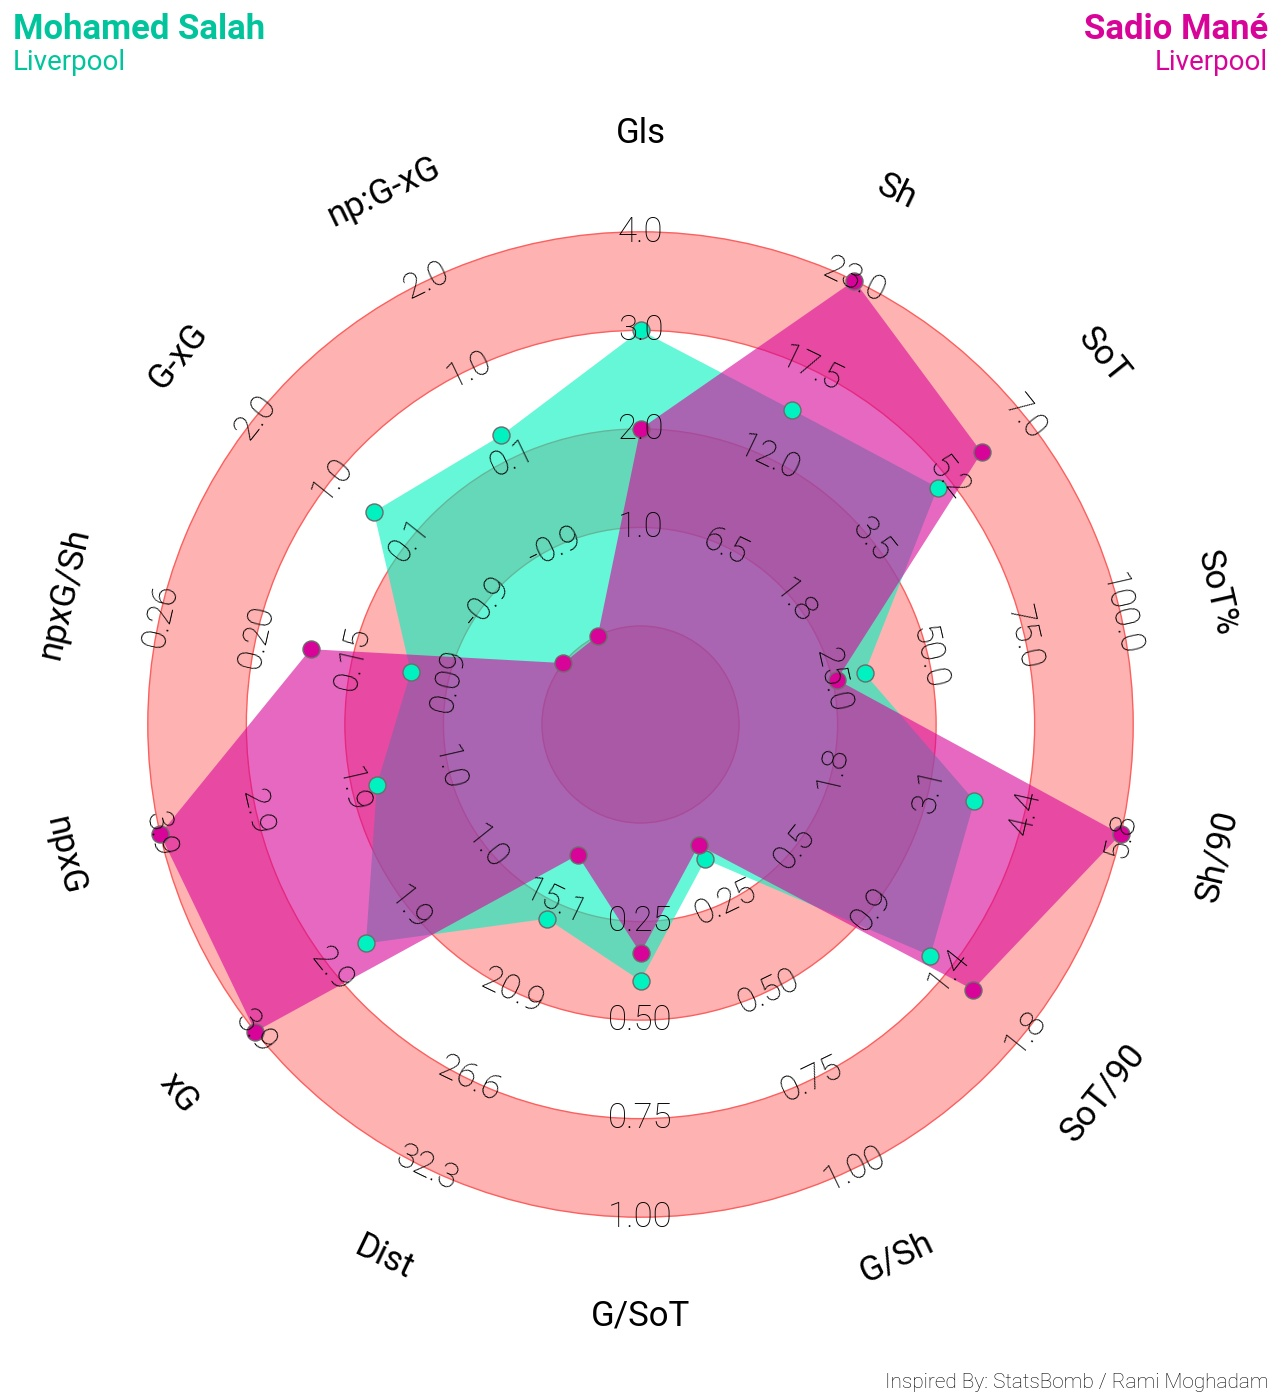
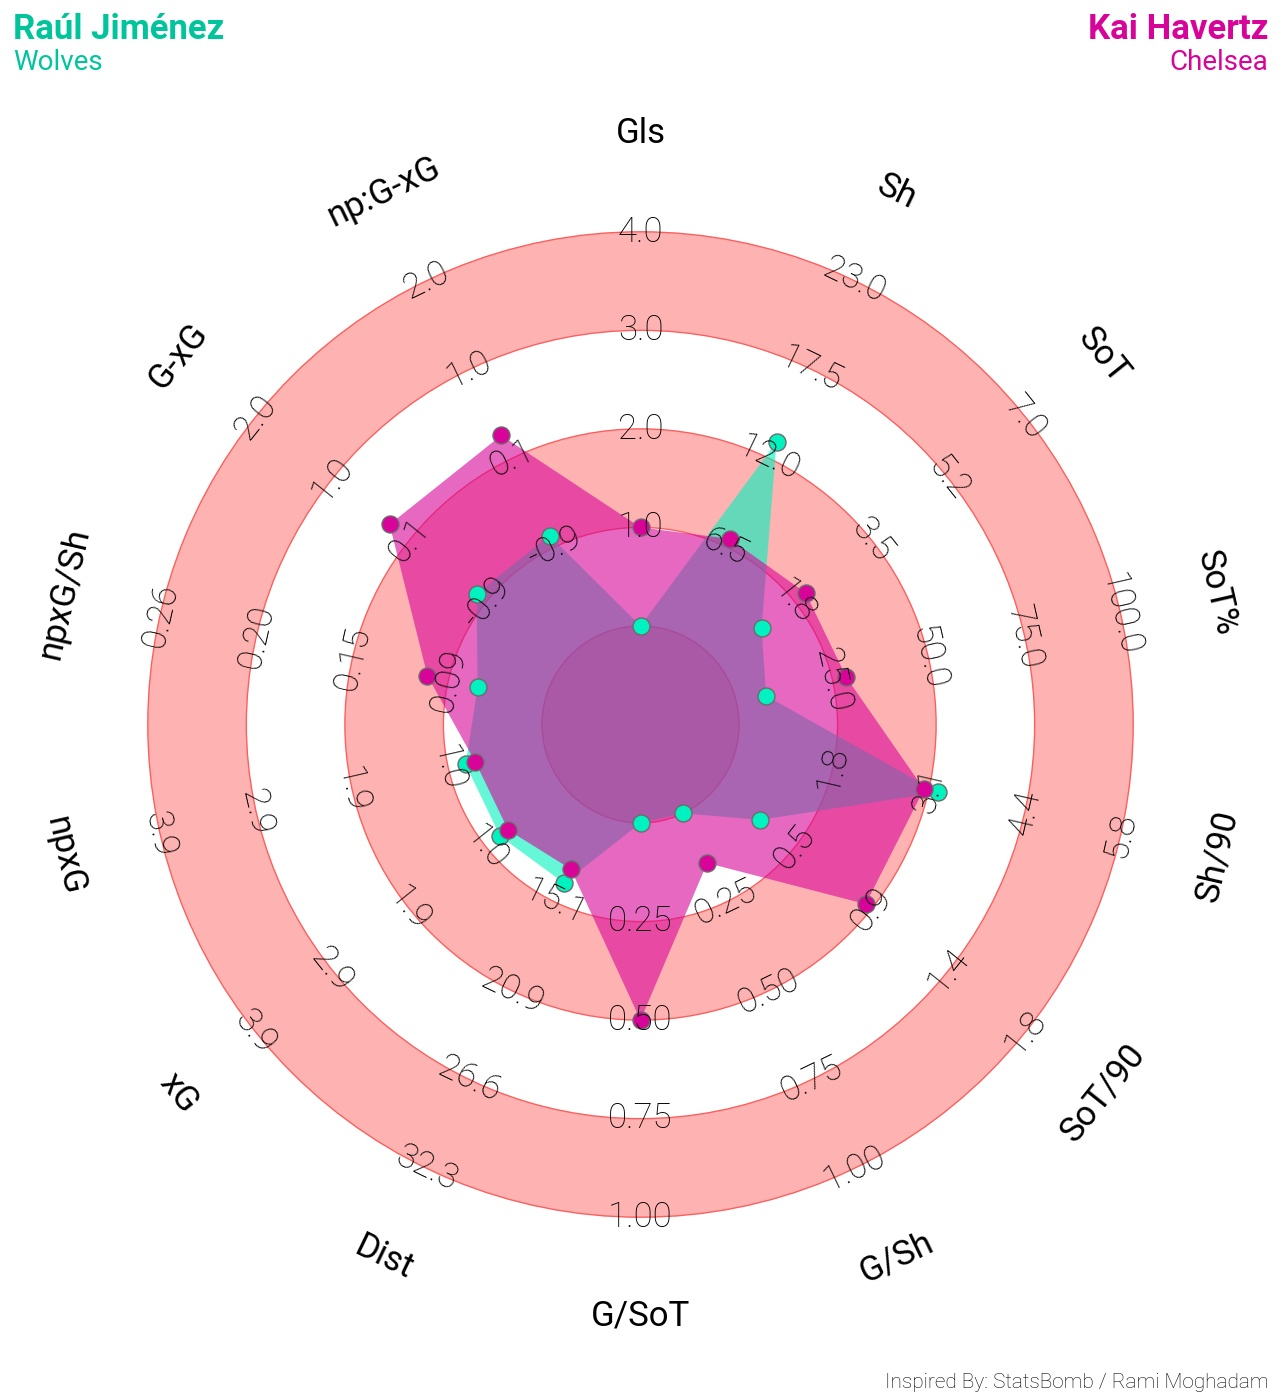
give random players as placeholders and error message

Changed region(s): [[0.1249, 0.1843, 0.8743, 0.7371], [0.0, 0.0, 0.2186, 0.0614], [0.8431, 0.0, 0.9992, 0.0614]]

diff --git a/templates/index.html b/templates/index.html
@@ -13,10 +13,23 @@
 <body>
 
 <section id="form">
+    <div class="container">
+    {% with messages = get_flashed_messages(with_categories=true) %}
+    <!-- Categories: success (green), info (blue), warning (yellow), danger (red) -->
+      {% if messages %}
+        {% for category, message in messages %}
+          <div class="alert alert-{{ category }} alert-dismissible" role="alert">
+          <!-- <strong>Title</strong> --> {{ message }}
+          </div>
+        {% endfor %}
+    {% endif %}
+    {% endwith %}
+    </div>
     <div class="container-sm">
         <h1>Give two players to compare</h1>
         <p>Choose from:</p>
         <p>{{ players }}</p>
+        <p><em>This list is all players who have played more than 2 full games and are classified as a forward on FBref.</em></p>
         {{ wtf.quick_form(form, novalidate=True, button_map={"submit": "primary"}) }}
     </div>
 </section>

diff --git a/main.py b/main.py
@@ -4,6 +4,7 @@ from forms import SubmitPlayers
 from mplsoccer import FontManager
 from chart import chart_maker
 import pandas as pd
+import random
 
 URL4 = 'https://github.com/googlefonts/roboto/blob/main/src/hinted/Roboto-Thin.ttf?raw=true'
 robotto_thin = FontManager(URL4)
@@ -33,12 +34,23 @@ Bootstrap(app)
 
 @app.route('/', methods=['GET', 'POST'])
 def home():
-    form = SubmitPlayers()
+    random_player_1 = random.choice(players)
+    random_player_2 = random.choice(players)
+    while random_player_1 == random_player_2:
+        random_player_2 = random.choice(players)
+    form = SubmitPlayers(
+        player_1=random_player_1,
+        player_2=random_player_2
+    )
     if form.validate_on_submit():
         player_1 = form.player_1.data
         player_2 = form.player_2.data
-        chart_maker(player_1, player_2, df, robotto_thin, robotto_regular, robotto_bold)
-        return redirect(url_for("result"))
+        try:
+            chart_maker(player_1, player_2, df, robotto_thin, robotto_regular, robotto_bold)
+            return redirect(url_for("result"))
+        except IndexError:
+            flash(f"Player(s) not in list", 'info')
+            return render_template("index.html", form=form, players=players)
     return render_template("index.html", form=form, players=players)
 
 
